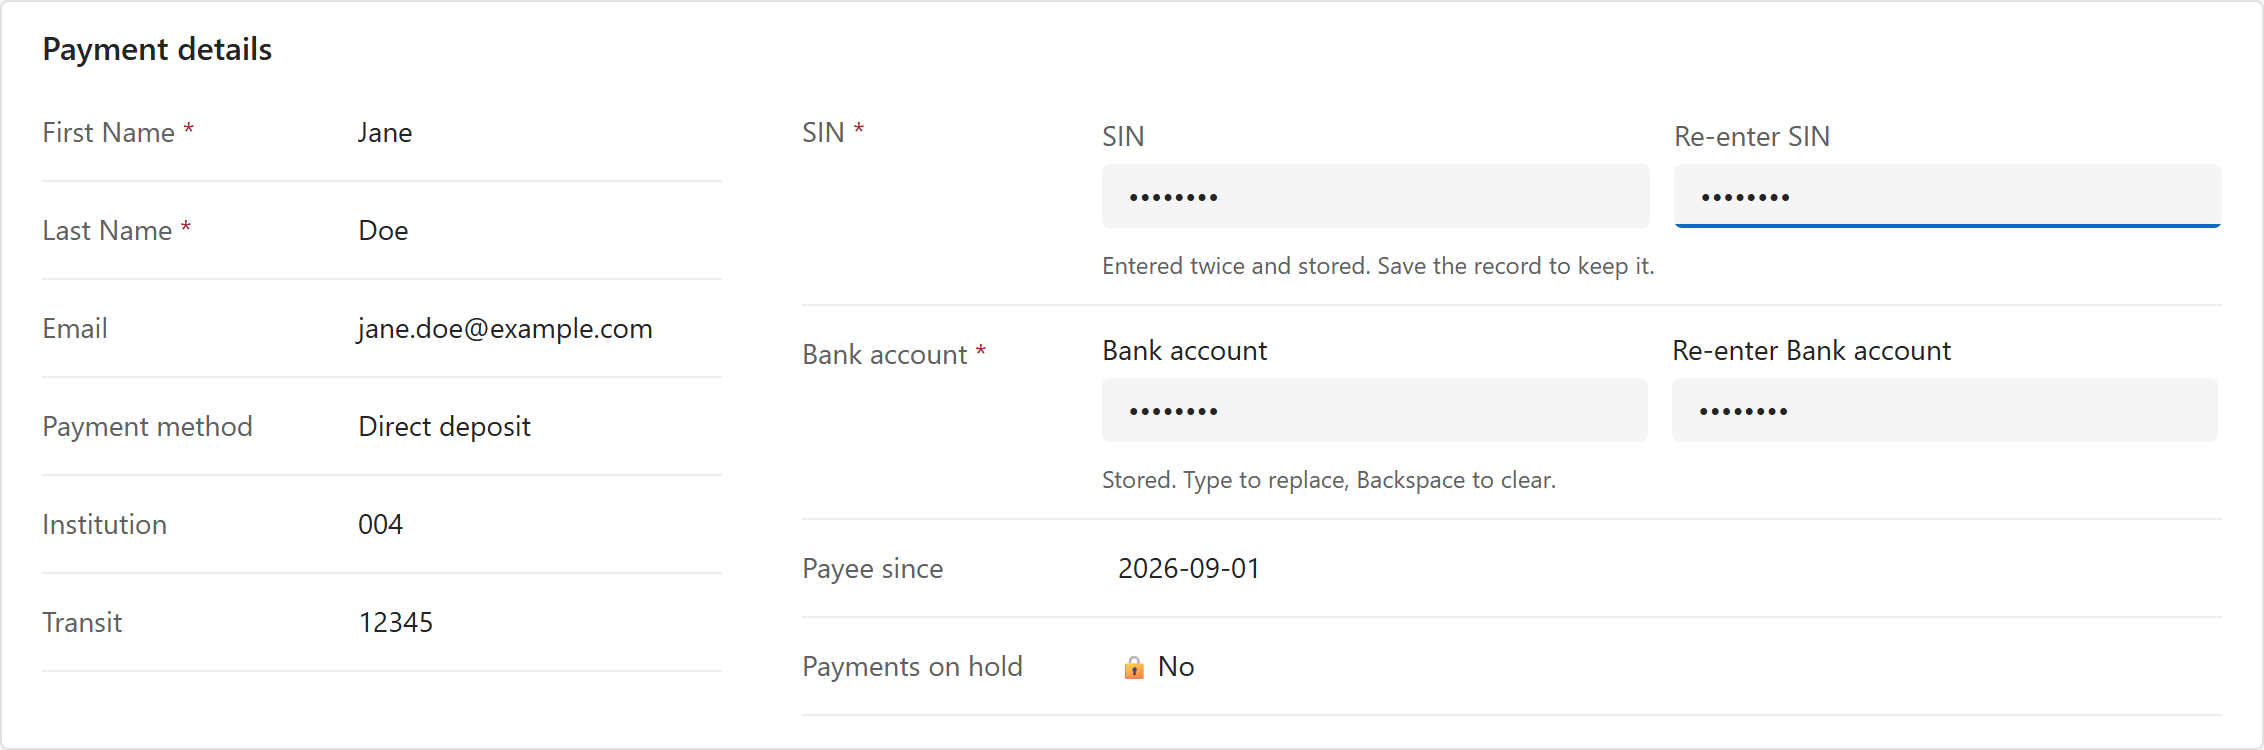
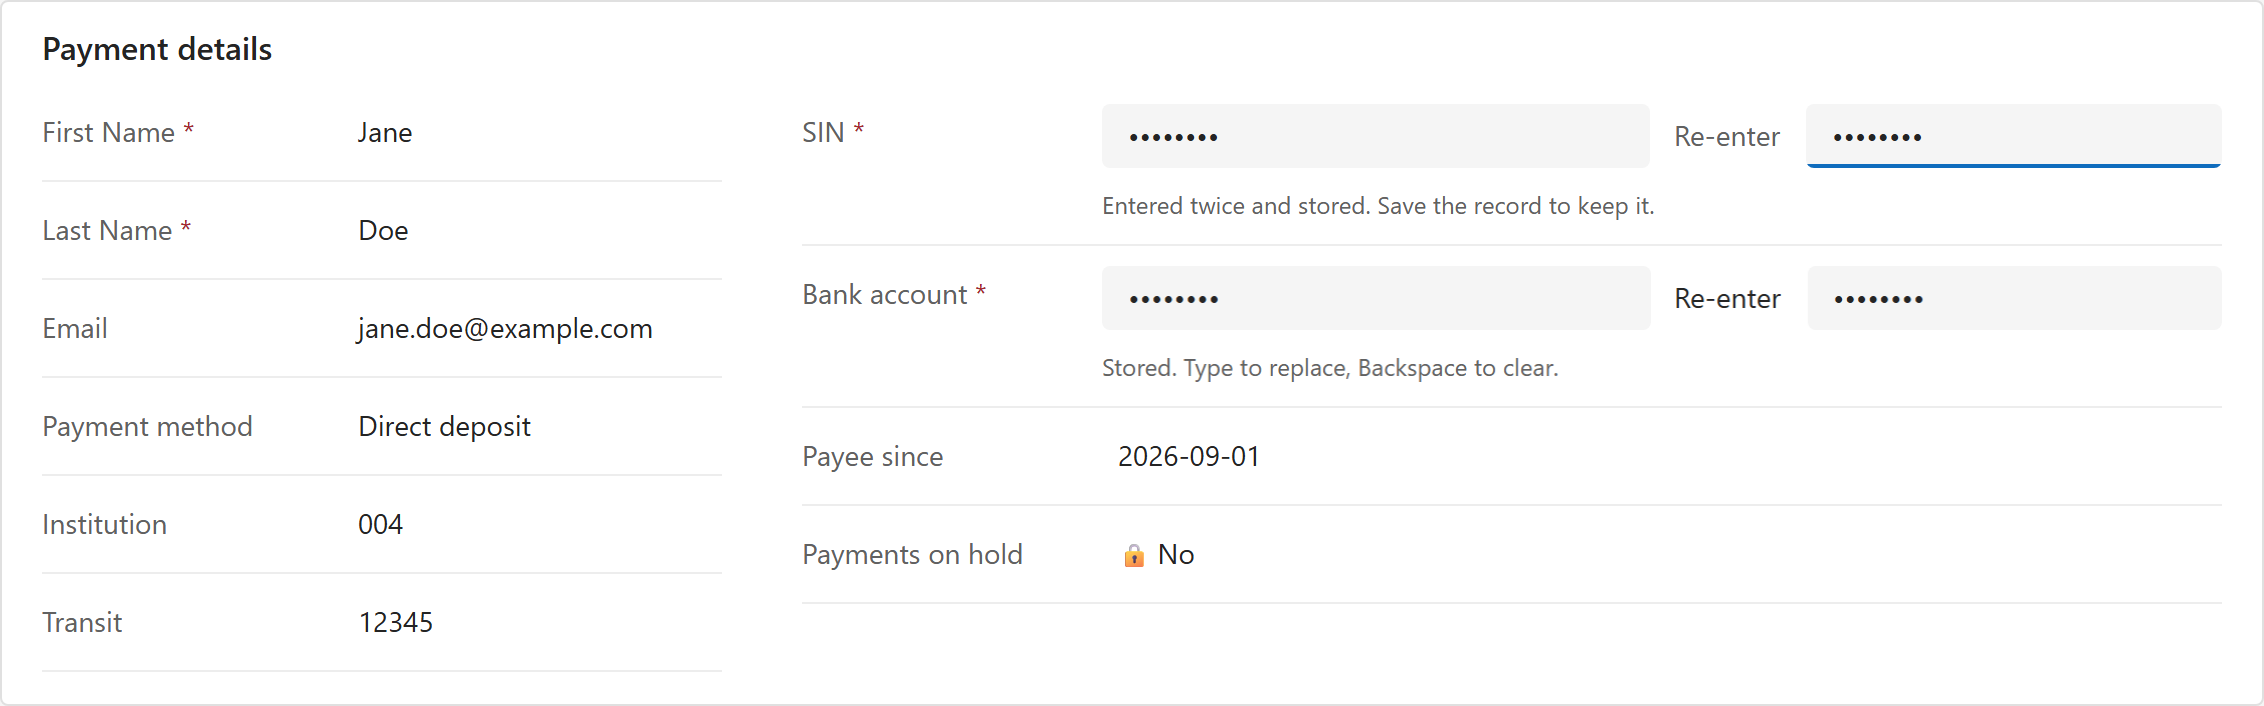
Label-less inline field takes the only column; manual and README on the label behaviour
Verified on the test env form (control 0.3.2): Re-enter beside the field in
the Left section, above it in the Top section, both labels where the cell
label is hidden; the SIN typed twice saved and read back.

diff --git a/SealedInput/SealedInput/SealedInputView.tsx b/SealedInput/SealedInput/SealedInputView.tsx
@@ -120,7 +120,9 @@ export const SealedInputView: React.FC<ISealedInputViewProps> = ({ stored, disab
     if (col !== labelCol) setLabelCol(col);
   }, [labels.inline, labels.first, labels.second, side]);
   const fieldStyle = labels.inline && labelCol > 0 ? { gridTemplateColumns: `${labelCol}px 1fr` } : undefined;
-  const firstFieldStyle = labels.inline && labels.first === null && !side && labelCol > 0 ? { paddingLeft: `${labelCol}px` } : fieldStyle;
+  // Without a label the input would land in the label column; give it the only column.
+  const firstFieldStyle =
+    labels.inline && labels.first === null ? { gridTemplateColumns: "1fr", paddingLeft: !side && labelCol > 0 ? `${labelCol}px` : 0 } : fieldStyle;
   // Fluent's Label lays its children out as a list, hence the key.
   const labelNode = (text: string | null, ref: React.RefObject<HTMLSpanElement>) =>
     text === null ? undefined : (

diff --git a/docs/usage.md b/docs/usage.md
@@ -9,10 +9,14 @@ Insurance Numbers.
 ## On a form
 
 A Contact form in a model-driven app. The wide column has the control on SIN
-and on bank account; the narrow column shows the SIN column once more. The
-fields are labelled with the column name and "Re-enter" plus the column name.
-The control measures the cell it is given: from 480 pixels up the two fields
-share one line; below that they stack.
+and on bank account, and once more with the cell label hidden; the narrow
+column shows the SIN column again. The form draws the column label itself, so
+the control only labels its second field, "Re-enter", and puts that label
+where the section puts labels: beside the field in the wide column, whose
+section has labels on the left, and above it in the narrow column, whose
+section has labels on top. Where the cell label is hidden, nothing else names
+the column, so both fields are labelled. The control measures the cell it is
+given: from 480 pixels up the two fields share one line; below that they stack.
 
 ![Contact form: SIN empty in a wide and a narrow column, bank account stored](img/form-real-empty.png)
 
@@ -84,6 +88,15 @@ under the first field, before the person types it a second time.
 When the form is read-only both fields are disabled and show eight dots, or
 nothing when the column is empty.
 
+Inside a form cell the labels follow the form. With the cell label shown on
+the left, only "Re-enter" appears, beside the second field; with the cell
+label on top, "Re-enter SIN" appears above the second field; with the cell
+label hidden, both fields are labelled, placed like the neighbouring cells.
+
+| Cell label on the left | Cell label on top | Cell label hidden |
+|---|---|---|
+| ![Re-enter beside the second field](img/labels-form-left.png) | ![Re-enter SIN above the second field](img/labels-form-top.png) | ![both labels beside the fields](img/labels-form-hidden.png) |
+
 ## Configuration
 
 Set these in the form designer when adding the control to the column. All are
@@ -91,7 +104,9 @@ optional.
 
 | Property | Default | What it does |
 |---|---|---|
-| Label | Column display name | The word on the two fields: `SIN` and `Re-enter SIN`. Set it when the column name is long or when the fields should say something else. |
+| Label | Column display name | The word on the fields: `SIN` and `Re-enter SIN`. Set it when the column name is long or when the fields should say something else. |
+| Labels | Auto (follow the form) | Which fields carry a label. `Auto` labels only the second field, `Re-enter`, when the form displays the column label for the cell, and both fields when the cell's label is hidden. `Both fields` and `Re-enter only` force one or the other. |
+| Label position | Auto (follow the section) | Where the labels sit. `Auto` puts them beside the fields when the section has its labels on the left and above the fields when the section has them on top. `Above the field` and `Beside the field` force one or the other. |
 | Characters | Digits only | `Digits only` drops anything that is not 0 to 9. `Any character` accepts whatever is typed. |
 | Validation | None | `Canadian SIN` requires nine digits with a valid Luhn checksum and caps typing at nine. |
 | Maximum length | 0 | Longest value that can be typed. 0 means no limit. Ignored when validation is SIN. |
@@ -155,6 +170,11 @@ Be clear about this with whoever asked for it.
 - **Read-only rendering is untested** in the local harness, which has no
   disabled switch. It is a plain text node with no interaction, so the risk is
   cosmetic.
+- **Auto labels read the page, not an API.** Nothing in the control framework
+  says whether the form shows the cell label or where the section puts it, so
+  the control looks at the DOM around it the way Unified Interface renders a
+  cell today. If that changes, `Auto` falls back to labelling both fields,
+  above; set the two label properties by hand if it ever guesses wrong.
 
 ## Build from source
 

diff --git a/README.md b/README.md
@@ -84,6 +84,19 @@ Each of these was an open question in the first README.
   pixels, stacked below. A `layout` property forces either. Measured rather
   than taken from `allocatedWidth` so the harness, the form and the mock-up all
   behave the same.
+- **Labels (2026-09-09, on the user's call).** The form draws the cell label
+  itself, so the control's own "SIN" label repeated it and, with labels above
+  the fields, pushed the inputs a line below the neighbouring stock fields.
+  Now: when the form shows the cell label, only the second field is labelled,
+  "Re-enter", placed where the section places labels (beside the field for a
+  Left section, above for a Top one); when the cell label is hidden, both
+  fields are labelled, placed like the neighbouring cells. Two properties,
+  Labels and Label position, default to Auto and can force either. Placeholder
+  text was mocked up and rejected. Auto is DOM sniffing: the control sits in a
+  container whose data-id ends in FieldSectionItemContainer, with the cell
+  label as a `<label>` whose id ends in `-field-label`; left vs above is
+  decided from bounding boxes, and a hidden label borrows the position from a
+  sibling cell. Outside such a container (the harness) it is "hidden, above".
 - **Tooling.** Skeleton copied from `xrm-plain-number` rather than
   `pac pcf init`, which pins Fluent 9.68.0 that the environment rejects.
   Playwright Test with a `webServer` entry, so `npx playwright test` is the
@@ -116,6 +129,17 @@ Each of these was an open question in the first README.
   hands the control no parameter object for it, so `p.layout.raw` threw. Fix:
   clear those caches before opening the form (`shoot-form.mjs` does), guard
   every input read with `?.`, and bump the manifest version on each push.
+- Griffel classes joined with a template string (`${a} ${b}`) leave the
+  cascade to stylesheet insertion order, which differs between page loads in
+  the form host: the wide cell sometimes stacked, and an override of Fluent's
+  label-less horizontal Field padding did nothing. Always `mergeClasses`.
+- A state update with a fresh object on every read, from an effect with no
+  dependency list, re-renders without end; the page hung on the first Enter,
+  but only inside a form cell, where the read returns an object rather than
+  null. Compare before setting, and give the effect its `[]`.
+- Fluent's horizontal Field puts a label-less input in the label column; give
+  that field a single column. Two separate Fields do not share a label column,
+  so the label width is measured and set on both.
 - Robocopy of a Chromium profile stalls on the locked cookie database when any
   Chromium has it open; pass `/R:0 /W:0` and close the holder. An orphaned
   headless shell from a finished script will hold it indefinitely.
